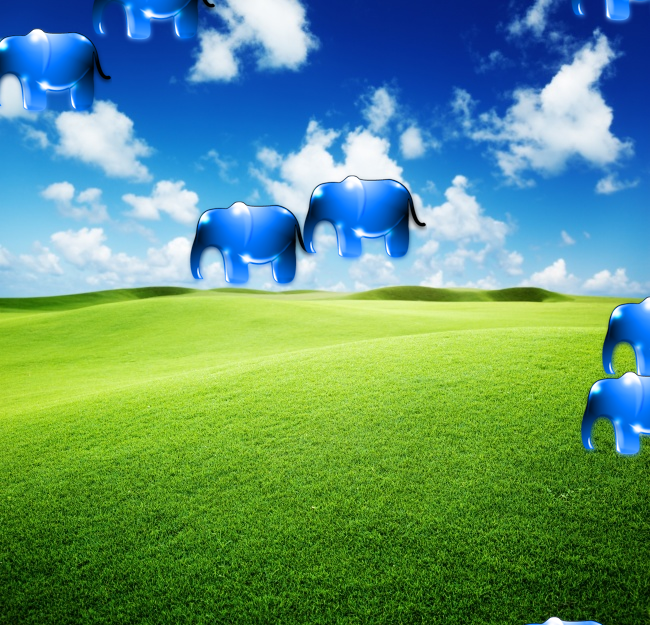
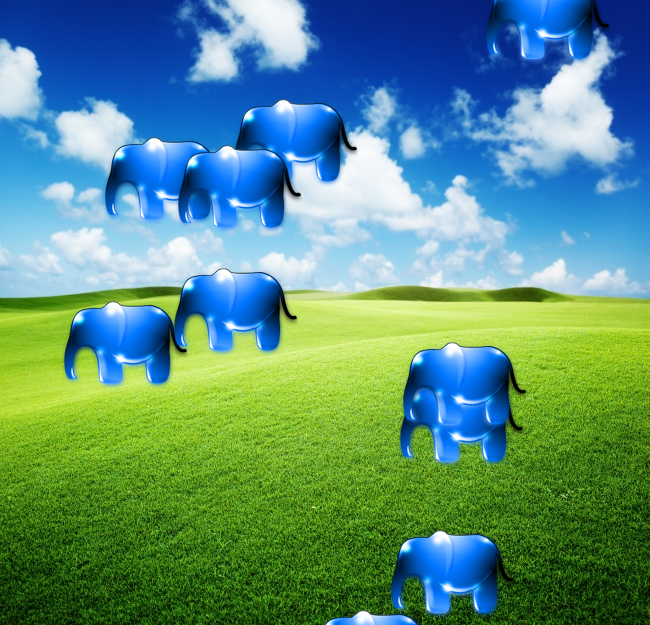
git a try to build up image pyramid in a single picture and the do ORB. Turn out to be useless

diff --git a/opencv-exps/feature_matching/buildpyr.py b/opencv-exps/feature_matching/buildpyr.py
@@ -1,0 +1,38 @@
+import cv2
+import numpy as np
+from cam import MyCam
+from mix_image import mix_image
+
+def buildpyr(img_in):
+
+    h = img_in.shape[0]
+    w = img_in.shape[1]
+    d = img_in.shape[2]
+    
+    img_out = np.full((h + h/2, w, d), 0, np.uint8)
+    img_pyr = img_in
+    x, y = 0, 0
+    dx, dy = w, h
+    
+    
+    for i in range(10):
+        # place image at x, y
+        img_out = mix_image(img_out, img_pyr, (x, y))
+        
+        if i % 2 == 0:
+            y = y + dy
+        else:
+            x = x + dx
+        
+        dx, dy = dx/2, dy/2
+        
+        img_pyr = cv2.pyrDown(img_pyr)
+    
+    
+    return img_out
+    
+
+if __name__ == "__main__":
+    cam = MyCam()
+    cam.cam_loop(buildpyr)
+    # cv2.waitKey(0)

diff --git a/opencv-exps/feature_matching/realtime_ORB.py b/opencv-exps/feature_matching/realtime_ORB.py
@@ -7,7 +7,7 @@ import numpy as np
 from cam import MyCam
 
 from fmatch import draw_match
-
+from buildpyr import buildpyr
 
 MIN_MATCH_COUNT = 10
 
@@ -15,7 +15,7 @@ MIN_MATCH_COUNT = 10
 orb = cv2.ORB()
 cam = MyCam()
 cam.size = (640, 480)
-img1 = img1 = cv2.imread('box.png',0)
+img1 = img1 = cv2.imread('box.png', 0)
 while True:
     
     img2 = cv2.flip(cv2.cvtColor(cam.read(), cv2.COLOR_BGR2GRAY), 1)
@@ -38,7 +38,6 @@ while True:
     
     # If nothing match then continue
     if des2 is None:
-        print
         img3 = img3 = draw_match(img1,kp1,img2,kp2,[])
         continue
     
@@ -93,4 +92,5 @@ while True:
     
     cv2.imshow('matches', img3)
     
+print 'press any key to continue'
 cv2.waitKey(0)
